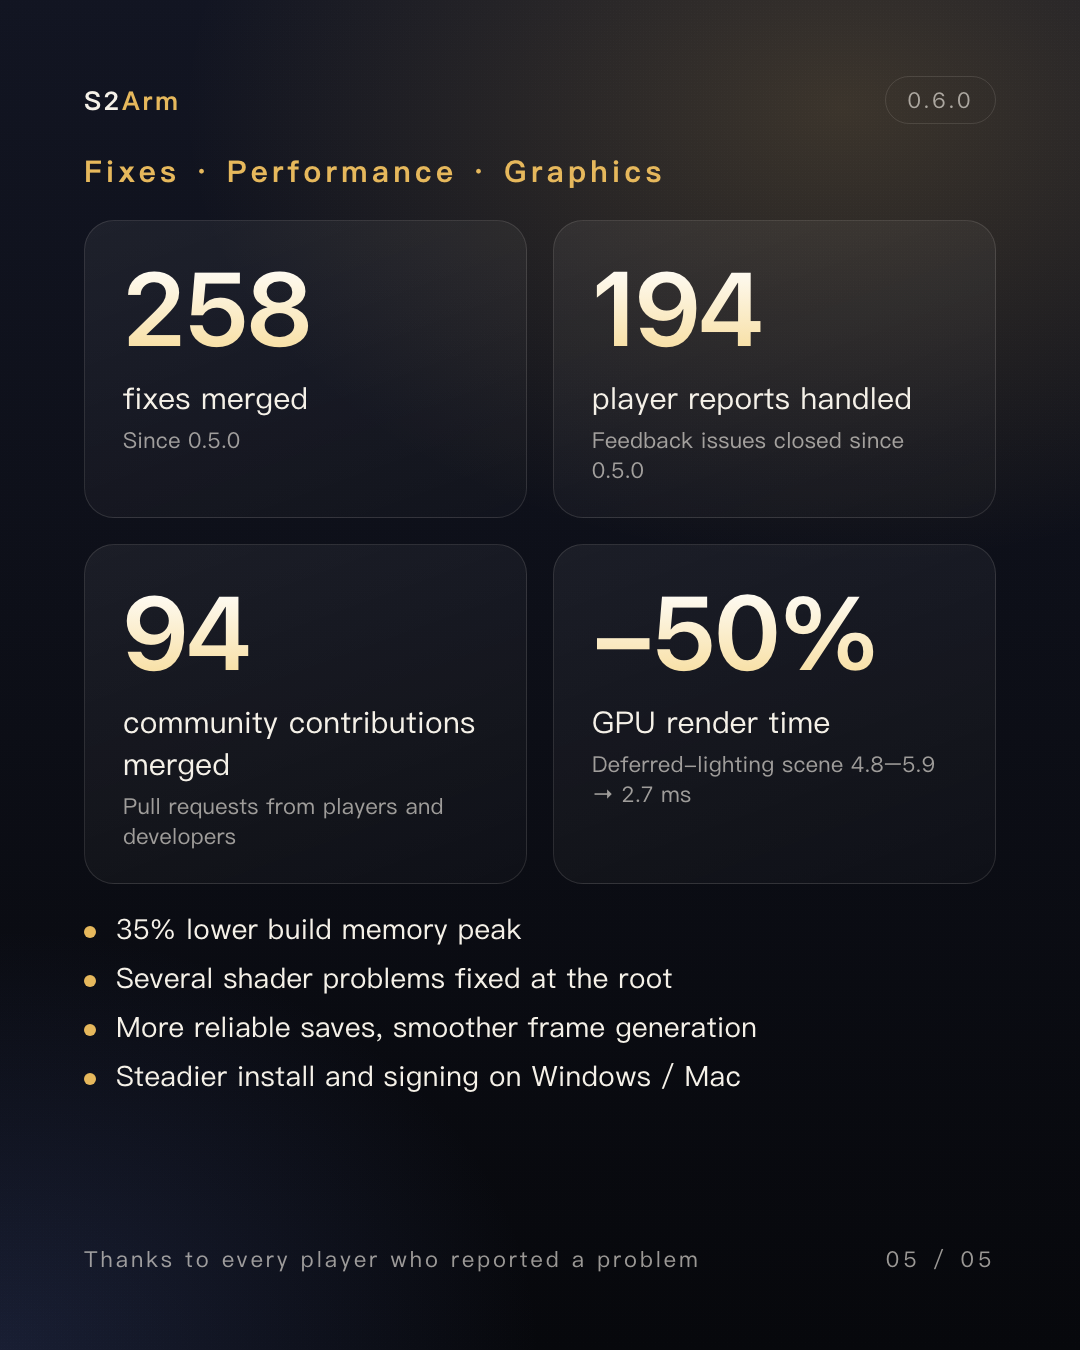
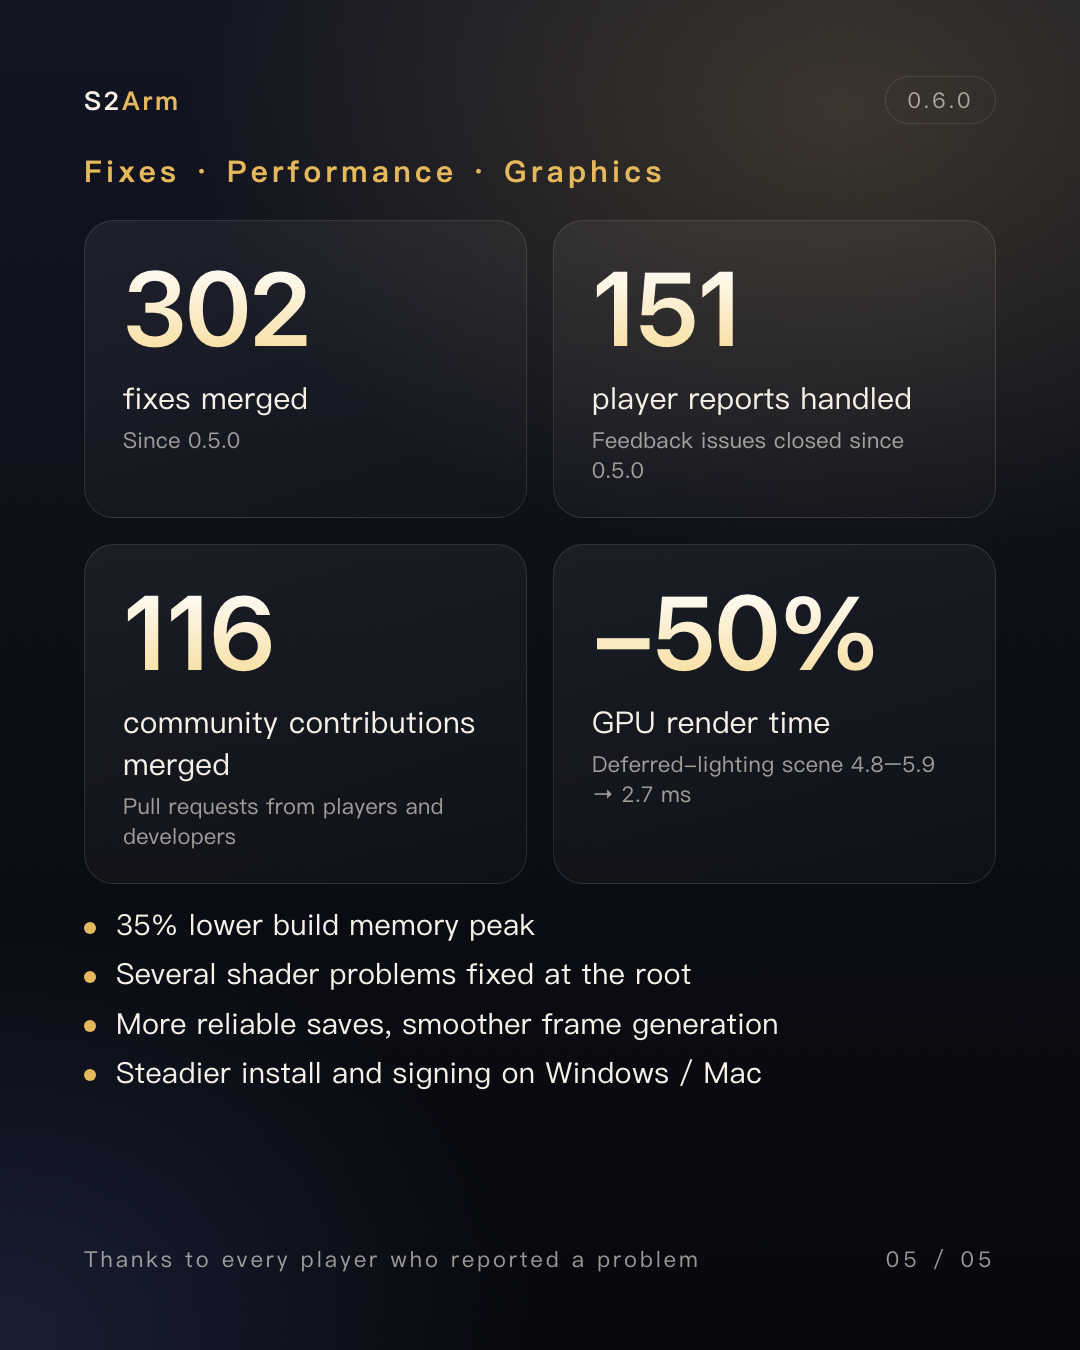
README：三项发版数字按 tools/release_stats.py 口径重算（302 / 151 / 116，main 50e2fe7ac），第 5 张海报中英同换
口径：v0.5.0..发版提交 main 上标题以 fix 开头的非合并提交数；v0.5.0 在 GitHub 发布后关闭的 Issue 数；经 contrib/pr<号> 合进 main 的不同 PR 数。发版时按发版提交重跑再换。

diff --git a/README.ja.md b/README.ja.md
@@ -45,9 +45,9 @@
 
 | | 数 | 数え方 |
 |---|---|---|
-| 取り込んだ修正 | **258** 件 | 0.5.0 リリース後に main に取り込んだ修正コミット |
-| 対応したプレイヤー報告 | **194** 件 | 0.5.0 リリース後にクローズしたフィードバック issue |
-| 取り込んだコミュニティ貢献 | **94** 件 | プレイヤーと開発者からの PR |
+| 取り込んだ修正 | **302** 件 | 0.5.0 リリース後に main に取り込んだ修正コミット |
+| 対応したプレイヤー報告 | **151** 件 | 0.5.0 リリース後にクローズしたフィードバック issue |
+| 取り込んだコミュニティ貢献 | **116** 件 | プレイヤーと開発者からの PR |
 | GPU 描画時間 | **−50%** | ディファードライティングの場面、4.8–5.9 ms → 2.7 ms |
 | エクスポート時のメモリ最大値 | **−35%** | 大型ゲームをエクスポートするときのメモリ最大値 |
 

diff --git a/README.es.md b/README.es.md
@@ -45,9 +45,9 @@ De la 0.5.0 a la 0.6.0 (cómo se cuenta cada cifra, en la tabla):
 
 | | Cifra | Cómo se cuenta |
 |---|---|---|
-| Correcciones integradas | **258** | Commits de corrección integrados en main después de la 0.5.0 |
-| Informes de jugadores atendidos | **194** | Issues de comentarios cerrados después de la 0.5.0 |
-| Contribuciones de la comunidad | **94** | Pull requests de jugadores y desarrolladores |
+| Correcciones integradas | **302** | Commits de corrección integrados en main después de la 0.5.0 |
+| Informes de jugadores atendidos | **151** | Issues de comentarios cerrados después de la 0.5.0 |
+| Contribuciones de la comunidad | **116** | Pull requests de jugadores y desarrolladores |
 | Tiempo de renderizado en GPU | **−50%** | Escena con iluminación diferida, 4.8–5.9 ms → 2.7 ms |
 | Pico de memoria al exportar | **−35%** | Pico de memoria al exportar juegos grandes |
 

diff --git a/README.fr.md b/README.fr.md
@@ -45,9 +45,9 @@ De la 0.5.0 à la 0.6.0 (la façon de compter chaque chiffre est dans le tableau
 
 | | Chiffre | Comment c'est compté |
 |---|---|---|
-| Corrections intégrées | **258** | Commits de correction intégrés dans main après la 0.5.0 |
-| Retours de joueurs traités | **194** | Issues de retours fermées après la 0.5.0 |
-| Contributions de la communauté | **94** | Pull requests de joueurs et de développeurs |
+| Corrections intégrées | **302** | Commits de correction intégrés dans main après la 0.5.0 |
+| Retours de joueurs traités | **151** | Issues de retours fermées après la 0.5.0 |
+| Contributions de la communauté | **116** | Pull requests de joueurs et de développeurs |
 | Temps de rendu GPU | **−50%** | Scène en éclairage différé, 4.8–5.9 ms → 2.7 ms |
 | Pic de mémoire à l'export | **−35%** | Pic de mémoire lors de l'export de gros jeux |
 

diff --git a/README.md b/README.md
@@ -45,9 +45,9 @@ From 0.5.0 to 0.6.0 (how each number is counted is in the table):
 
 | | Number | How it's counted |
 |---|---|---|
-| Fixes merged | **258** | Fix commits merged into main after 0.5.0 |
-| Player reports handled | **194** | Feedback issues closed after 0.5.0 |
-| Community contributions | **94** | Pull requests from players and developers |
+| Fixes merged | **302** | Fix commits merged into main after 0.5.0 |
+| Player reports handled | **151** | Feedback issues closed after 0.5.0 |
+| Community contributions | **116** | Pull requests from players and developers |
 | GPU render time | **−50%** | Deferred-lighting scene, 4.8–5.9 ms → 2.7 ms |
 | Build memory peak | **−35%** | Peak memory while building large games |
 

diff --git a/README.zh-TW.md b/README.zh-TW.md
@@ -45,9 +45,9 @@
 
 | | 數字 | 口徑 |
 |---|---|---|
-| 修復合入 | **258** 項 | 0.5.0 發布後合入 main 的修復提交 |
-| 玩家回饋處理 | **194** 條 | 0.5.0 發布後關閉的回饋帖 |
-| 社群貢獻合入 | **94** 份 | 來自玩家與開發者的 PR |
+| 修復合入 | **302** 項 | 0.5.0 發布後合入 main 的修復提交 |
+| 玩家回饋處理 | **151** 條 | 0.5.0 發布後關閉的回饋帖 |
+| 社群貢獻合入 | **116** 份 | 來自玩家與開發者的 PR |
 | GPU 渲染耗時 | **−50%** | 延遲光照場景，4.8–5.9 ms → 2.7 ms |
 | 出包記憶體峰值 | **−35%** | 大型遊戲出包時的記憶體峰值 |
 

diff --git a/README.zh-CN.md b/README.zh-CN.md
@@ -45,9 +45,9 @@
 
 | | 数字 | 口径 |
 |---|---|---|
-| 修复合入 | **258** 项 | 0.5.0 发布后合入 main 的修复提交 |
-| 玩家反馈处理 | **194** 条 | 0.5.0 发布后关闭的反馈帖 |
-| 社区贡献合入 | **94** 份 | 来自玩家与开发者的 PR |
+| 修复合入 | **302** 项 | 0.5.0 发布后合入 main 的修复提交 |
+| 玩家反馈处理 | **151** 条 | 0.5.0 发布后关闭的反馈帖 |
+| 社区贡献合入 | **116** 份 | 来自玩家与开发者的 PR |
 | GPU 渲染耗时 | **−50%** | 延迟光照场景，4.8–5.9 ms → 2.7 ms |
 | 出包内存峰值 | **−35%** | 大型游戏出包时的内存峰值 |
 
